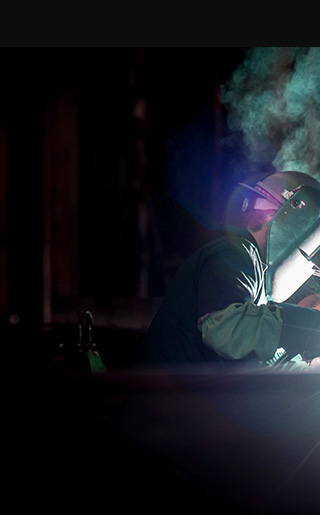
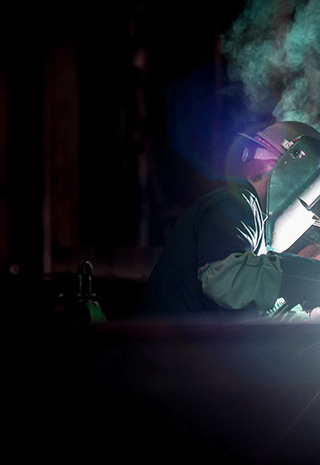
Добавляет стили_3 (mobile) для promo

diff --git a/build/css/style.min.css b/build/css/style.min.css
@@ -1,3 +1,3 @@
 /*! normalize.css v8.0.1 | MIT License | github.com/necolas/normalize.css */
-html{line-height:1.15;-webkit-text-size-adjust:100%;-webkit-box-sizing:border-box;box-sizing:border-box}body{min-width:320px;margin:0;padding:0;font-size:14px;line-height:1.2;font-weight:400;font-family:"Roboto","Arial",sans-serif;color:#000;background-color:#fff}details,img,main{display:block}h1{font-size:2em;margin:.67em 0}hr{-webkit-box-sizing:content-box;box-sizing:content-box;height:0;overflow:visible}code,kbd,pre,samp{font-family:monospace,monospace;font-size:1em}a{background-color:transparent;text-decoration:none}abbr[title]{border-bottom:none;-webkit-text-decoration:underline dotted;text-decoration:underline dotted}b,strong{font-weight:bolder}small{font-size:80%}sub,sup{font-size:75%;line-height:0;position:relative;vertical-align:baseline}sub{bottom:-.25em}sup{top:-.5em}img{border-style:none;max-width:100%;height:auto}button,input,optgroup,select,textarea{font-family:inherit;font-size:100%;line-height:1.15;margin:0}button,input{overflow:visible}button,select{text-transform:none}[type=button],[type=reset],[type=submit],button{-webkit-appearance:button}[type=button]::-moz-focus-inner,[type=reset]::-moz-focus-inner,[type=submit]::-moz-focus-inner,button::-moz-focus-inner{border-style:none;padding:0}[type=button]:-moz-focusring,[type=reset]:-moz-focusring,[type=submit]:-moz-focusring,button:-moz-focusring{outline:1px dotted ButtonText}fieldset{padding:.35em .75em .625em}legend{color:inherit;display:table;max-width:100%;white-space:normal}progress{vertical-align:baseline}textarea{overflow:auto}[type=checkbox],[type=radio],legend{-webkit-box-sizing:border-box;box-sizing:border-box;padding:0}[type=number]::-webkit-inner-spin-button,[type=number]::-webkit-outer-spin-button{height:auto}[type=search]{-webkit-appearance:textfield;outline-offset:-2px}[type=search]::-webkit-search-decoration{-webkit-appearance:none}::-webkit-file-upload-button{-webkit-appearance:button;font:inherit}summary{display:list-item}[hidden],template{display:none}@font-face{font-family:"Roboto";src:local("Roboto Regular"),local("Roboto-Regular"),url(../fonts/roboto-regular.woff2) format("woff2"),url(../fonts/roboto-regular.woff) format("woff");font-weight:400;font-style:normal;font-display:swap}@font-face{font-family:"Roboto";src:local("Roboto Medium"),local("Roboto-Medium"),url(../fonts/roboto-medium.woff2) format("woff2"),url(../fonts/roboto-medium.woff) format("woff");font-weight:500;font-style:normal;font-display:swap}@font-face{font-family:"Roboto";src:local("Roboto Bold"),local("Roboto-Bold"),url(../fonts/roboto-bold.woff2) format("woff2"),url(../fonts/roboto-bold.woff) format("woff");font-weight:700;font-style:normal;font-display:swap}@font-face{font-family:"Roboto";src:local("Roboto Black"),local("Roboto-Black"),url(../fonts/roboto-black.woff2) format("woff2"),url(../fonts/roboto-black.woff) format("woff");font-weight:900;font-style:normal;font-display:swap}@font-face{font-family:"Raleway";src:local("Raleway Bold"),local("Raleway-Bold"),url(../fonts/raleway-bold.woff2) format("woff2"),url(../fonts/raleway-bold.woff) format("woff");font-weight:700;font-style:normal;font-display:swap}@font-face{font-family:"Raleway";src:local("Raleway Black"),local("Raleway-Black"),url(../fonts/raleway-black.woff2) format("woff2"),url(../fonts/raleway-black.woff) format("woff");font-weight:900;font-style:normal;font-display:swap}@font-face{font-family:"Circe";src:local("Circe Regular"),local("Circe-Regular"),url(../fonts/circe-regular.woff2) format("woff2"),url(../fonts/circe-regular.woff) format("woff");font-weight:400;font-style:normal;font-display:swap}*,::after,::before{-webkit-box-sizing:inherit;box-sizing:inherit}.visually-hidden,input[type=checkbox].visually-hidden,input[type=radio].visually-hidden{position:absolute;width:1px;height:1px;margin:-1px;border:0;padding:0;white-space:nowrap;-webkit-clip-path:inset(100%);clip-path:inset(100%);clip:rect(0,0,0,0);overflow:hidden}.header{width:100%;background-color:#fbfbfb}.header__wrapper{display:-webkit-box;display:-ms-flexbox;display:flex;-ms-flex-wrap:wrap;flex-wrap:wrap;max-width:1170px;min-height:100px;padding-top:20px;margin:0 auto}.header__btn-feedback,.header__tel{height:45px;margin-top:6px;overflow:auto}.header__tel{display:-webkit-box;display:-ms-flexbox;display:flex;-webkit-box-align:center;-ms-flex-align:center;align-items:center;min-width:180px;max-width:180px;margin-left:auto;padding:0 10px;font-size:18px;line-height:20px;font-weight:700;color:#1c1c1c}.header__tel:hover{color:rgba(28,28,28,.7);text-decoration:underline;-webkit-text-decoration-color:#00ffd7;text-decoration-color:#00ffd7}.header__tel:active{color:rgba(28,28,28,.4)}.header__btn-feedback{min-width:191px;max-width:191px;margin-left:15px;font-size:16px;line-height:26px;font-weight:500;background-color:#00ffd7;border:0}.header__btn-feedback:hover{background-color:#00ffd7;-webkit-box-shadow:0 2px 4.75px .25px rgba(0,255,215,.6);box-shadow:0 2px 4.75px .25px rgba(0,255,215,.6)}.header__btn-feedback:active{opacity:.5}@media (max-width:1199px){.header__wrapper{min-height:52px;padding:8px 54px 0 64px}.header__tel{min-width:145px;height:40px;margin-top:0;font-size:14px}.header__btn-feedback{display:none}}@media (max-width:767px){.header__wrapper{min-height:50px;padding:7px 0 0}.header__tel{display:none}}.nav{position:relative;display:-webkit-box;display:-ms-flexbox;display:flex}.nav__logo,.nav__logo-img{min-width:141px;max-width:141px;height:60px}.nav__logo{display:block;margin-right:48px}.nav__logo:hover{cursor:pointer;opacity:.7}.nav__logo:active{opacity:.3}.nav__toggle{display:none}@media (max-width:1199px){.nav__logo,.nav__logo-img{min-width:86px;max-width:86px;height:37px}.nav__logo{margin-right:25px}.nav__toggle{position:relative;width:52px;height:40px;padding:0;background-color:transparent;border:0;cursor:pointer}.nav__toggle:hover{background-color:#00ffd7}.nav--closed .nav__toggle::before{content:"";position:absolute;top:11px;left:13px;width:26px;height:2px;background-color:#afafaf;-webkit-box-shadow:0 8px 0 0 #afafaf,0 16px 0 0 #afafaf;box-shadow:0 8px 0 0 #afafaf,0 16px 0 0 #afafaf}.nav--closed .nav__toggle:active::before,.nav--closed .nav__toggle:hover::before{background-color:#000;-webkit-box-shadow:0 8px 0 0 #000,0 16px 0 0 #000;box-shadow:0 8px 0 0 #000,0 16px 0 0 #000}.nav--opened .nav__toggle::after,.nav--opened .nav__toggle::before{content:"";position:absolute;top:20px;left:13px;width:27px;height:2px;background-color:#afafaf}.nav--opened .nav__toggle::before{-webkit-transform:rotate(45deg);transform:rotate(45deg);-webkit-box-shadow:none;box-shadow:none}.nav--opened .nav__toggle::after{-webkit-transform:rotate(-45deg);transform:rotate(-45deg)}.nav--opened .nav__toggle:active::after,.nav--opened .nav__toggle:active::before{background-color:#000}.nav--opened .nav__toggle--close,.nav__toggle{display:block}.nav--closed .nav__list{background-color:transparent}.nav--closed .menu__item{display:none}}@media (max-width:767px){.nav{width:100%;padding:0 9px 0 20px}.nav__toggle{margin-left:auto}}.menu{margin:0;list-style:none;display:-webkit-box;display:-ms-flexbox;display:flex;-ms-flex-wrap:wrap;flex-wrap:wrap;min-width:330px;max-width:600px;padding:6.5px 0 0}.menu__item{max-width:150px;overflow:auto}.menu__link{display:block;padding:12.5px 11px;font-size:10px;line-height:20px;font-weight:500;color:#717171;letter-spacing:.6px;text-transform:uppercase}.menu__link:hover{font-weight:700;color:#000;cursor:pointer}.menu__link:active{background-color:rgba(0,255,215,.2)}@media (max-width:1199px){.menu{position:absolute;top:44px;left:-64px;-webkit-box-orient:vertical;-webkit-box-direction:normal;-ms-flex-direction:column;flex-direction:column;max-width:100%;padding-top:0}.menu__item{max-width:207px;text-align:center;background-color:#e7e7e7;border-bottom:1px solid #dedede}.menu__item:first-of-type{display:none}.menu__item:last-of-type{border-bottom:none}.menu__link{min-height:39.25px;font-size:12px;font-weight:400;font-family:"Circe","Arial",sans-serif;color:#383838;letter-spacing:0}.menu__link:hover{color:#000;background-color:#00ffd7}.menu__link:active{background-color:rgba(0,255,215,.2)}}@media (max-width:767px){.menu{top:43px;left:0;width:100%}.menu__item{max-width:100%;min-width:320px}}.main{width:100%;min-height:calc(100vh - 1337px);background-color:#fff}.promo{width:100%;background-color:#000;background-image:url(../img/bg-banner-desktop.jpg);background-repeat:no-repeat;background-position:center}@media (-webkit-min-device-pixel-ratio:1.5),(min-resolution:144dpi),(min-resolution:1.5dppx){.promo{background-image:url(../img/bg-banner-desktop@2x.jpg);background-size:1920px auto}}.promo__wrapper{margin:0 auto;outline:1px solid red;max-width:1170px;min-height:935px;padding-top:151px}.promo__heading{margin:0 0 23px;font-size:72px;font-weight:900;font-family:"Raleway","Arial",sans-serif;color:#fffffe;text-transform:uppercase;letter-spacing:3.6px}.promo__text{width:87%;margin:0 0 53px;font-size:24px;line-height:38px;font-weight:500;color:#fffffe}.promo__text-color{color:#00ffd7}.promo__btn-feedback,.promo__btn-services{min-width:300px;max-width:300px;height:56px;font-size:20px;line-height:26px;font-weight:900;text-transform:uppercase;overflow:auto;cursor:pointer}.promo__btn-feedback:hover,.promo__btn-services:hover{-webkit-box-shadow:0 2px 6.3px .7px rgba(0,255,215,.65);box-shadow:0 2px 6.3px .7px rgba(0,255,215,.65)}.promo__btn-feedback:active,.promo__btn-services:active{opacity:.5}.promo__btn-services{margin-right:18px;background-color:#00ffd7;border:0}.promo__btn-feedback{color:#fff;background-color:transparent;border:1px solid #97fff4;-webkit-box-shadow:0 2px 2.7px .3px rgba(0,255,215,.27);box-shadow:0 2px 2.7px .3px rgba(0,255,215,.27)}@media (max-width:1199px){.promo{background-image:url(../img/bg-banner-tablet.jpg)}}@media (max-width:1199px) and (-webkit-min-device-pixel-ratio:1.5),(max-width:1199px) and (min-resolution:144dpi),(max-width:1199px) and (min-resolution:1.5dppx){.promo{background-image:url(../img/bg-banner-tablet@2x.jpg);background-size:768 auto}}@media (max-width:1199px){.promo__wrapper{max-width:768px;min-height:600px;padding:125px 75px 0 83px}.promo__heading{width:650px;margin-bottom:18px;font-size:38px;letter-spacing:1.8px}.promo__text{width:600px;margin-bottom:86px;font-size:16px;line-height:inherit;font-weight:inherit}.promo__btn-feedback,.promo__btn-services{min-width:290px;max-width:290px;height:55px;font-size:16px}.promo__btn-services{margin-right:17px}}.footer{width:100%;min-height:1337px;background-color:gray}
+html{line-height:1.15;-webkit-text-size-adjust:100%;-webkit-box-sizing:border-box;box-sizing:border-box}body{min-width:320px;margin:0;padding:0;font-size:14px;line-height:1.2;font-weight:400;font-family:"Roboto","Arial",sans-serif;color:#000;background-color:#fff}details,img,main{display:block}h1{font-size:2em;margin:.67em 0}hr{-webkit-box-sizing:content-box;box-sizing:content-box;height:0;overflow:visible}code,kbd,pre,samp{font-family:monospace,monospace;font-size:1em}a{background-color:transparent;text-decoration:none}abbr[title]{border-bottom:none;-webkit-text-decoration:underline dotted;text-decoration:underline dotted}b,strong{font-weight:bolder}small{font-size:80%}sub,sup{font-size:75%;line-height:0;position:relative;vertical-align:baseline}sub{bottom:-.25em}sup{top:-.5em}img{border-style:none;max-width:100%;height:auto}button,input,optgroup,select,textarea{font-family:inherit;font-size:100%;line-height:1.15;margin:0}button,input{overflow:visible}button,select{text-transform:none}[type=button],[type=reset],[type=submit],button{-webkit-appearance:button}[type=button]::-moz-focus-inner,[type=reset]::-moz-focus-inner,[type=submit]::-moz-focus-inner,button::-moz-focus-inner{border-style:none;padding:0}[type=button]:-moz-focusring,[type=reset]:-moz-focusring,[type=submit]:-moz-focusring,button:-moz-focusring{outline:1px dotted ButtonText}fieldset{padding:.35em .75em .625em}legend{color:inherit;display:table;max-width:100%;white-space:normal}progress{vertical-align:baseline}textarea{overflow:auto}[type=checkbox],[type=radio],legend{-webkit-box-sizing:border-box;box-sizing:border-box;padding:0}[type=number]::-webkit-inner-spin-button,[type=number]::-webkit-outer-spin-button{height:auto}[type=search]{-webkit-appearance:textfield;outline-offset:-2px}[type=search]::-webkit-search-decoration{-webkit-appearance:none}::-webkit-file-upload-button{-webkit-appearance:button;font:inherit}summary{display:list-item}[hidden],template{display:none}@font-face{font-family:"Roboto";src:local("Roboto Regular"),local("Roboto-Regular"),url(../fonts/roboto-regular.woff2) format("woff2"),url(../fonts/roboto-regular.woff) format("woff");font-weight:400;font-style:normal;font-display:swap}@font-face{font-family:"Roboto";src:local("Roboto Medium"),local("Roboto-Medium"),url(../fonts/roboto-medium.woff2) format("woff2"),url(../fonts/roboto-medium.woff) format("woff");font-weight:500;font-style:normal;font-display:swap}@font-face{font-family:"Roboto";src:local("Roboto Bold"),local("Roboto-Bold"),url(../fonts/roboto-bold.woff2) format("woff2"),url(../fonts/roboto-bold.woff) format("woff");font-weight:700;font-style:normal;font-display:swap}@font-face{font-family:"Roboto";src:local("Roboto Black"),local("Roboto-Black"),url(../fonts/roboto-black.woff2) format("woff2"),url(../fonts/roboto-black.woff) format("woff");font-weight:900;font-style:normal;font-display:swap}@font-face{font-family:"Raleway";src:local("Raleway Bold"),local("Raleway-Bold"),url(../fonts/raleway-bold.woff2) format("woff2"),url(../fonts/raleway-bold.woff) format("woff");font-weight:700;font-style:normal;font-display:swap}@font-face{font-family:"Raleway";src:local("Raleway Black"),local("Raleway-Black"),url(../fonts/raleway-black.woff2) format("woff2"),url(../fonts/raleway-black.woff) format("woff");font-weight:900;font-style:normal;font-display:swap}@font-face{font-family:"Circe";src:local("Circe Regular"),local("Circe-Regular"),url(../fonts/circe-regular.woff2) format("woff2"),url(../fonts/circe-regular.woff) format("woff");font-weight:400;font-style:normal;font-display:swap}*,::after,::before{-webkit-box-sizing:inherit;box-sizing:inherit}.visually-hidden,input[type=checkbox].visually-hidden,input[type=radio].visually-hidden{position:absolute;width:1px;height:1px;margin:-1px;border:0;padding:0;white-space:nowrap;-webkit-clip-path:inset(100%);clip-path:inset(100%);clip:rect(0,0,0,0);overflow:hidden}.header{width:100%;background-color:#fbfbfb}.header__wrapper{display:-webkit-box;display:-ms-flexbox;display:flex;-ms-flex-wrap:wrap;flex-wrap:wrap;max-width:1170px;min-height:100px;padding-top:20px;margin:0 auto}.header__btn-feedback,.header__tel{height:45px;margin-top:6px;overflow:auto}.header__tel{display:-webkit-box;display:-ms-flexbox;display:flex;-webkit-box-align:center;-ms-flex-align:center;align-items:center;min-width:180px;max-width:180px;margin-left:auto;padding:0 10px;font-size:18px;line-height:20px;font-weight:700;color:#1c1c1c}.header__tel:hover{color:rgba(28,28,28,.7);text-decoration:underline;-webkit-text-decoration-color:#00ffd7;text-decoration-color:#00ffd7}.header__tel:active{color:rgba(28,28,28,.4)}.header__btn-feedback{min-width:191px;max-width:191px;margin-left:15px;font-size:16px;line-height:26px;font-weight:500;background-color:#00ffd7;border:0}.header__btn-feedback:hover{background-color:#00ffd7;-webkit-box-shadow:0 2px 4.75px .25px rgba(0,255,215,.6);box-shadow:0 2px 4.75px .25px rgba(0,255,215,.6)}.header__btn-feedback:active{opacity:.5}@media (max-width:1199px){.header__wrapper{min-height:52px;padding:8px 54px 0 64px}.header__tel{min-width:145px;height:40px;margin-top:0;font-size:14px}.header__btn-feedback{display:none}}@media (max-width:767px){.header__wrapper{min-height:50px;padding:7px 0 0}.header__tel{display:none}}.nav{position:relative;display:-webkit-box;display:-ms-flexbox;display:flex}.nav__logo,.nav__logo-img{min-width:141px;max-width:141px;height:60px}.nav__logo{display:block;margin-right:48px}.nav__logo:hover{cursor:pointer;opacity:.7}.nav__logo:active{opacity:.3}.nav__toggle{display:none}@media (max-width:1199px){.nav__logo,.nav__logo-img{min-width:86px;max-width:86px;height:37px}.nav__logo{margin-right:25px}.nav__toggle{position:relative;width:52px;height:40px;padding:0;background-color:transparent;border:0;cursor:pointer}.nav__toggle:hover{background-color:#00ffd7}.nav--closed .nav__toggle::before{content:"";position:absolute;top:11px;left:13px;width:26px;height:2px;background-color:#afafaf;-webkit-box-shadow:0 8px 0 0 #afafaf,0 16px 0 0 #afafaf;box-shadow:0 8px 0 0 #afafaf,0 16px 0 0 #afafaf}.nav--closed .nav__toggle:active::before,.nav--closed .nav__toggle:hover::before{background-color:#000;-webkit-box-shadow:0 8px 0 0 #000,0 16px 0 0 #000;box-shadow:0 8px 0 0 #000,0 16px 0 0 #000}.nav--opened .nav__toggle::after,.nav--opened .nav__toggle::before{content:"";position:absolute;top:20px;left:13px;width:27px;height:2px;background-color:#afafaf}.nav--opened .nav__toggle::before{-webkit-transform:rotate(45deg);transform:rotate(45deg);-webkit-box-shadow:none;box-shadow:none}.nav--opened .nav__toggle::after{-webkit-transform:rotate(-45deg);transform:rotate(-45deg)}.nav--opened .nav__toggle:active::after,.nav--opened .nav__toggle:active::before{background-color:#000}.nav--opened .nav__toggle--close,.nav__toggle{display:block}.nav--closed .nav__list{background-color:transparent}.nav--closed .menu__item{display:none}}@media (max-width:767px){.nav{width:100%;padding:0 9px 0 20px}.nav__toggle{margin-left:auto}}.menu{margin:0;list-style:none;display:-webkit-box;display:-ms-flexbox;display:flex;-ms-flex-wrap:wrap;flex-wrap:wrap;min-width:330px;max-width:600px;padding:6.5px 0 0}.menu__item{max-width:150px;overflow:auto}.menu__link{display:block;padding:12.5px 11px;font-size:10px;line-height:20px;font-weight:500;color:#717171;letter-spacing:.6px;text-transform:uppercase}.menu__link:hover{font-weight:700;color:#000;cursor:pointer}.menu__link:active{background-color:rgba(0,255,215,.2)}@media (max-width:1199px){.menu{position:absolute;top:44px;left:-64px;-webkit-box-orient:vertical;-webkit-box-direction:normal;-ms-flex-direction:column;flex-direction:column;max-width:100%;padding-top:0}.menu__item{max-width:207px;text-align:center;background-color:#e7e7e7;border-bottom:1px solid #dedede}.menu__item:first-of-type{display:none}.menu__item:last-of-type{border-bottom:none}.menu__link{min-height:39.25px;font-size:12px;font-weight:400;font-family:"Circe","Arial",sans-serif;color:#383838;letter-spacing:0}.menu__link:hover{color:#000;background-color:#00ffd7}.menu__link:active{background-color:rgba(0,255,215,.2)}}@media (max-width:767px){.menu{top:43px;left:0;width:100%}.menu__item{max-width:100%;min-width:320px}}.main{width:100%;min-height:calc(100vh - 1337px);background-color:#fff}.promo{width:100%;background-color:#000;background-image:url(../img/bg-banner-desktop.jpg);background-repeat:no-repeat;background-position:center}@media (-webkit-min-device-pixel-ratio:1.5),(min-resolution:144dpi),(min-resolution:1.5dppx){.promo{background-image:url(../img/bg-banner-desktop@2x.jpg);background-size:1920px auto}}.promo__wrapper{margin:0 auto;outline:1px solid red;max-width:1170px;min-height:935px;padding-top:151px}.promo__heading{margin:0 0 23px;font-size:72px;font-weight:900;font-family:"Raleway","Arial",sans-serif;color:#fffffe;text-transform:uppercase;letter-spacing:3.6px}.promo__text-mobile{display:none}.promo__text{outline:1px solid red;width:87%;margin:0 0 53px;font-size:24px;line-height:38px;font-weight:500;color:#fffffe}.promo__text-color{color:#00ffd7}.promo__btn-feedback,.promo__btn-services{min-width:300px;max-width:300px;height:56px;font-size:20px;line-height:26px;font-weight:900;text-transform:uppercase;overflow:auto;cursor:pointer}.promo__btn-feedback:hover,.promo__btn-services:hover{-webkit-box-shadow:0 2px 6.3px .7px rgba(0,255,215,.65);box-shadow:0 2px 6.3px .7px rgba(0,255,215,.65)}.promo__btn-feedback:active,.promo__btn-services:active{opacity:.5}.promo__btn-services{margin-right:18px;background-color:#00ffd7;border:0}.promo__btn-feedback{color:#fff;background-color:transparent;border:1px solid #97fff4;-webkit-box-shadow:0 2px 2.7px .3px rgba(0,255,215,.27);box-shadow:0 2px 2.7px .3px rgba(0,255,215,.27)}@media (max-width:1199px){.promo{background-image:url(../img/bg-banner-tablet.jpg);background-position:right}}@media (max-width:1199px) and (-webkit-min-device-pixel-ratio:1.5),(max-width:1199px) and (min-resolution:144dpi),(max-width:1199px) and (min-resolution:1.5dppx){.promo{background-image:url(../img/bg-banner-tablet@2x.jpg);background-size:768px auto}}@media (max-width:1199px){.promo__wrapper{min-height:600px;padding:125px 75px 0 83px}.promo__heading{width:650px;margin-bottom:18px;font-size:38px;letter-spacing:1.8px}.promo__text{width:600px;margin-bottom:86px;font-size:16px;line-height:inherit;font-weight:inherit}.promo__btn-feedback,.promo__btn-services{min-width:290px;max-width:290px;height:55px;font-size:16px}.promo__btn-services{margin-right:17px}}@media (max-width:767px){.promo{background-image:url(../img/bg-banner-mobile.jpg);background-position:right}}@media (max-width:767px) and (-webkit-min-device-pixel-ratio:1.5),(max-width:767px) and (min-resolution:144dpi),(max-width:767px) and (min-resolution:1.5dppx){.promo{background-image:url(../img/bg-banner-mobile@2x.jpg);background-size:320px auto}}@media (max-width:767px){.promo__wrapper{min-height:465px;padding:128px 20px 0;text-align:center}.promo__heading{width:280px;margin:0 auto 21px;font-size:16px;letter-spacing:.9px}.promo__text-mobile{display:block;margin:0 0 58px;font-size:16px;color:#fffffe}.promo__text{display:none;width:100%;margin:0 auto 40px;font-size:12px;line-height:18px;color:#000;text-align:left;background-color:#fff}.promo__text-color--mobile{color:inherit}.promo__btn-feedback,.promo__btn-services{min-width:280px;max-width:280px;height:60px;margin-bottom:10px;font-size:16px}.promo__btn-services{margin-right:0}}.advantages__text{display:none}@media (max-width:767px){.advantages{padding:35px 20px 0 24px}.advantages__text{outline:1px solid red;display:block}.advantages__text--clone .promo__text{display:block}}.footer{width:100%;min-height:1337px;background-color:gray}
 /*# sourceMappingURL=style.min.css.map */

diff --git a/build/index.html b/build/index.html
@@ -133,26 +133,30 @@
     <main class="main">
       <section class="promo">
         <div class="promo__wrapper">
-          <section class="promo__advertising">
-            <h1 class="promo__heading">
-              Строительно-монтажные
-              работы
-            </h1>
+          <h1 class="promo__heading">
+            Строительно-монтажные
+            работы
+          </h1>
 
-            <p class="promo__text">
-              Компания ЗАО &laquo;НCП &laquo;МонтCтрой&raquo; успешно работает на&nbsp;российском рынке с&nbsp;<span class="promo__text-color">1992</span>&nbsp;года,
-              и&nbsp;за&nbsp;это время зарекомендовала себя как ведущий разработчик качественных систем
-              установок для предприятий, выполняет полный комплекс строительно-монтажных
-              и&nbsp;пуско-наладочных работ по&nbsp;электроснабжению зданий и&nbsp;сооружений.
-            </p>
+          <p class="promo__text-mobile">
+            Работаем на&nbsp;российском рынке с&nbsp;<span class="promo__text-color">1992</span> года
+          </p>
 
-            <button class="promo__btn-services" type="button" aria-label="Прокрутить к разделу Услуги">Наши услуги</button>
-            <button class="promo__btn-feedback" type="button" aria-label="Прокрутить к форме обратной связи">Связаться с нами</button>
-          </section>
+          <p class="promo__text">
+            Компания ЗАО &laquo;НCП &laquo;МонтCтрой&raquo; успешно работает на&nbsp;российском рынке с&nbsp;<span class="promo__text-color promo__text-color--mobile">1992</span>&nbsp;года,
+            и&nbsp;за это время зарекомендовала себя как ведущий разработчик качественных систем
+            установок для предприятий, выполняет полный комплекс строительно-монтажных
+            и&nbsp;пуско-наладочных работ по&nbsp;электроснабжению зданий и&nbsp;сооружений.
+          </p>
+
+          <button class="promo__btn-services" type="button" aria-label="Прокрутить к разделу Услуги">Наши услуги</button>
+          <button class="promo__btn-feedback" type="button" aria-label="Прокрутить к форме обратной связи">Связаться с нами</button>
         </div>
       </section>
 
       <section class="advantages">
+        <div class="advantages__text advantages__text--clone"></div>
+
         <h2 class="visually-hidden">Преимущества</h2>
 
         <ul class="advantages__list">

diff --git a/source/index.html b/source/index.html
@@ -87,26 +87,30 @@
     <main class="main">
       <section class="promo">
         <div class="promo__wrapper">
-          <section class="promo__advertising">
-            <h1 class="promo__heading">
-              Строительно-монтажные
-              работы
-            </h1>
+          <h1 class="promo__heading">
+            Строительно-монтажные
+            работы
+          </h1>
 
-            <p class="promo__text">
-              Компания ЗАО &laquo;НCП &laquo;МонтCтрой&raquo; успешно работает на&nbsp;российском рынке с&nbsp;<span class="promo__text-color">1992</span>&nbsp;года,
-              и&nbsp;за&nbsp;это время зарекомендовала себя как ведущий разработчик качественных систем
-              установок для предприятий, выполняет полный комплекс строительно-монтажных
-              и&nbsp;пуско-наладочных работ по&nbsp;электроснабжению зданий и&nbsp;сооружений.
-            </p>
+          <p class="promo__text-mobile">
+            Работаем на&nbsp;российском рынке с&nbsp;<span class="promo__text-color">1992</span> года
+          </p>
 
-            <button class="promo__btn-services" type="button" aria-label="Прокрутить к разделу Услуги">Наши услуги</button>
-            <button class="promo__btn-feedback" type="button" aria-label="Прокрутить к форме обратной связи">Связаться с нами</button>
-          </section>
+          <p class="promo__text">
+            Компания ЗАО &laquo;НCП &laquo;МонтCтрой&raquo; успешно работает на&nbsp;российском рынке с&nbsp;<span class="promo__text-color promo__text-color--mobile">1992</span>&nbsp;года,
+            и&nbsp;за это время зарекомендовала себя как ведущий разработчик качественных систем
+            установок для предприятий, выполняет полный комплекс строительно-монтажных
+            и&nbsp;пуско-наладочных работ по&nbsp;электроснабжению зданий и&nbsp;сооружений.
+          </p>
+
+          <button class="promo__btn-services" type="button" aria-label="Прокрутить к разделу Услуги">Наши услуги</button>
+          <button class="promo__btn-feedback" type="button" aria-label="Прокрутить к форме обратной связи">Связаться с нами</button>
         </div>
       </section>
 
       <section class="advantages">
+        <div class="advantages__text advantages__text--clone"></div>
+
         <h2 class="visually-hidden">Преимущества</h2>
 
         <ul class="advantages__list">

diff --git a/source/sass/blocks/promo.scss b/source/sass/blocks/promo.scss
@@ -33,7 +33,13 @@
   letter-spacing: 3.6px;
 }
 
+.promo__text-mobile {
+  display: none;
+}
+
 .promo__text {
+  @include outline;
+
   width: 87%;
   margin: 0;
   margin-bottom: 53px;
@@ -91,15 +97,15 @@
 @media (max-width: $tablet-width) {
   .promo {
     background-image: url("../img/bg-banner-tablet.jpg");
+    background-position: right;
 
     @media (min-resolution: $retina-dpi), (min-resolution: $retina-dppx) {
       background-image: url("../img/bg-banner-tablet@2x.jpg");
-      background-size: 768 auto;
+      background-size: 768px auto;
     }
   }
 
   .promo__wrapper {
-    max-width: 768px;
     min-height: 600px;
     padding: 125px 75px 0 83px;
   }
@@ -132,5 +138,82 @@
 
   .promo__btn-services {
     margin-right: 17px;
+  }
+}
+
+/* <<<<<<<<<<<<<<<<<<<<<<<<<<<<<< mobile >>>>>>>>>>>>>>>>>>>>>>>>>>>>>> */
+
+@media (max-width: $mobile-width) {
+  .promo {
+    background-image: url("../img/bg-banner-mobile.jpg");
+    background-position: right;
+
+    @media (min-resolution: $retina-dpi), (min-resolution: $retina-dppx) {
+      background-image: url("../img/bg-banner-mobile@2x.jpg");
+      background-size: 320px auto;
+    }
+  }
+
+  .promo__wrapper {
+    min-height: 465px;
+    padding: 128px 20px 0;
+
+    text-align: center;
+  }
+
+  .promo__heading {
+    @include wrapper;
+
+    width: 280px;
+    margin-bottom: 21px;
+
+    font-size: 16px;
+    letter-spacing: 0.9px;
+  }
+
+  .promo__text-mobile {
+    display: block;
+
+    margin: 0;
+    margin-bottom: 58px;
+
+    font-size: 16px;
+    color: #fffffe;
+  }
+
+  .promo__text {
+    @include wrapper;
+
+    display: none;
+
+    width: 100%;
+    margin-bottom: 40px;
+
+    font-size: 12px;
+    line-height: 18px;
+    color: black;
+    text-align: left;
+
+    background-color: white;
+  }
+
+  .promo__text-color {
+    &--mobile {
+      color: inherit;
+    }
+  }
+
+  .promo__btn-services,
+  .promo__btn-feedback {
+    min-width: 280px;
+    max-width: 280px;
+    height: 60px;
+    margin-bottom: 10px;
+
+    font-size: 16px;
+  }
+
+  .promo__btn-services {
+    margin-right: 0;
   }
 }

diff --git a/source/sass/blocks/advantages.scss b/source/sass/blocks/advantages.scss
@@ -1,0 +1,21 @@
+.advantages__text {
+  display: none;
+}
+
+/* <<<<<<<<<<<<<<<<<<<<<<<<<<<<<< mobile >>>>>>>>>>>>>>>>>>>>>>>>>>>>>> */
+
+@media (max-width: $mobile-width) {
+  .advantages {
+    padding: 35px 20px 0 24px;
+  }
+
+  .advantages__text {
+    @include outline;
+
+    display: block;
+
+    &--clone .promo__text {
+      display: block;
+    }
+  }
+}

diff --git a/source/sass/style.scss b/source/sass/style.scss
@@ -14,6 +14,7 @@
 
 @import "../sass/blocks/main.scss";
 @import "../sass/blocks/promo.scss";
+@import "../sass/blocks/advantages.scss";
 
 /* <<<<<<<<<<<<<<<<<<<<<<<<<<<<<< footer >>>>>>>>>>>>>>>>>>>>>>>>>>>>>> */
 

diff --git a/build/js/script.js b/build/js/script.js
@@ -32,4 +32,7 @@
   myBtnPromoServices.addEventListener('click', function () {
     $('.services').animatescroll();
   });
+
+  var $div = $('.promo__text').clone();
+  $('.advantages__text').html($div);
 })();

diff --git a/source/js/script.js b/source/js/script.js
@@ -32,4 +32,7 @@
   myBtnPromoServices.addEventListener('click', function () {
     $('.services').animatescroll();
   });
+
+  var $div = $('.promo__text').clone();
+  $('.advantages__text').html($div);
 })();
